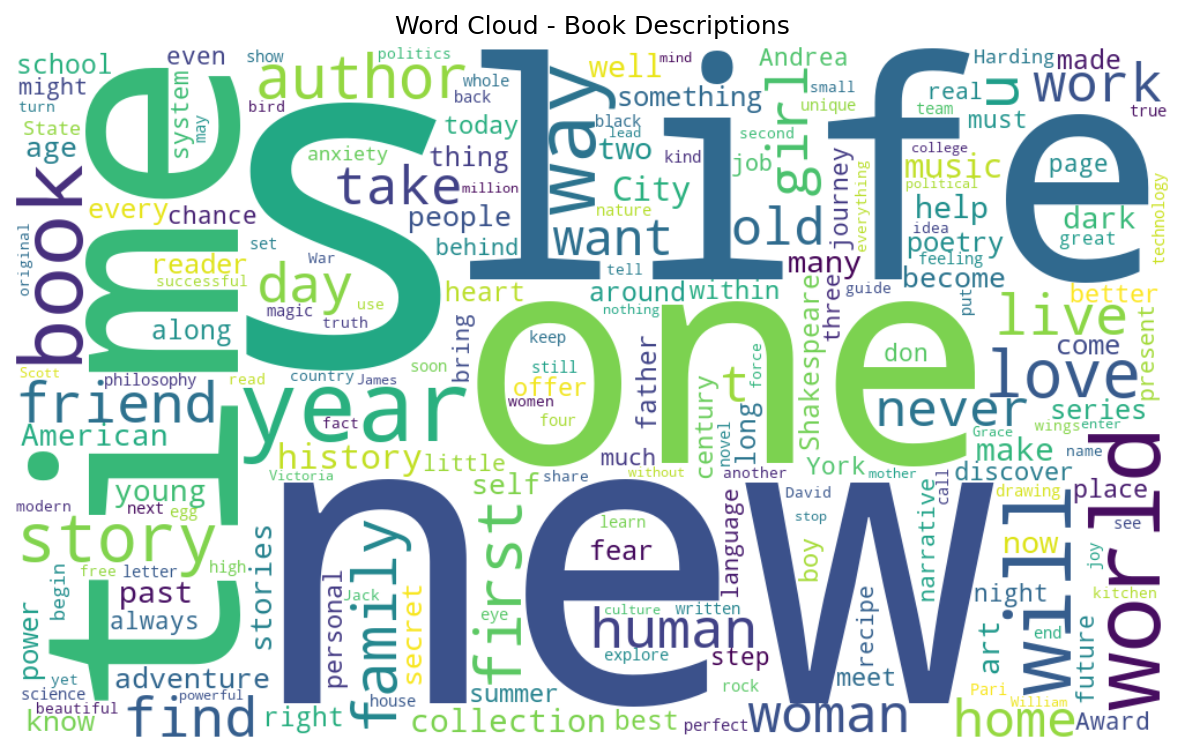
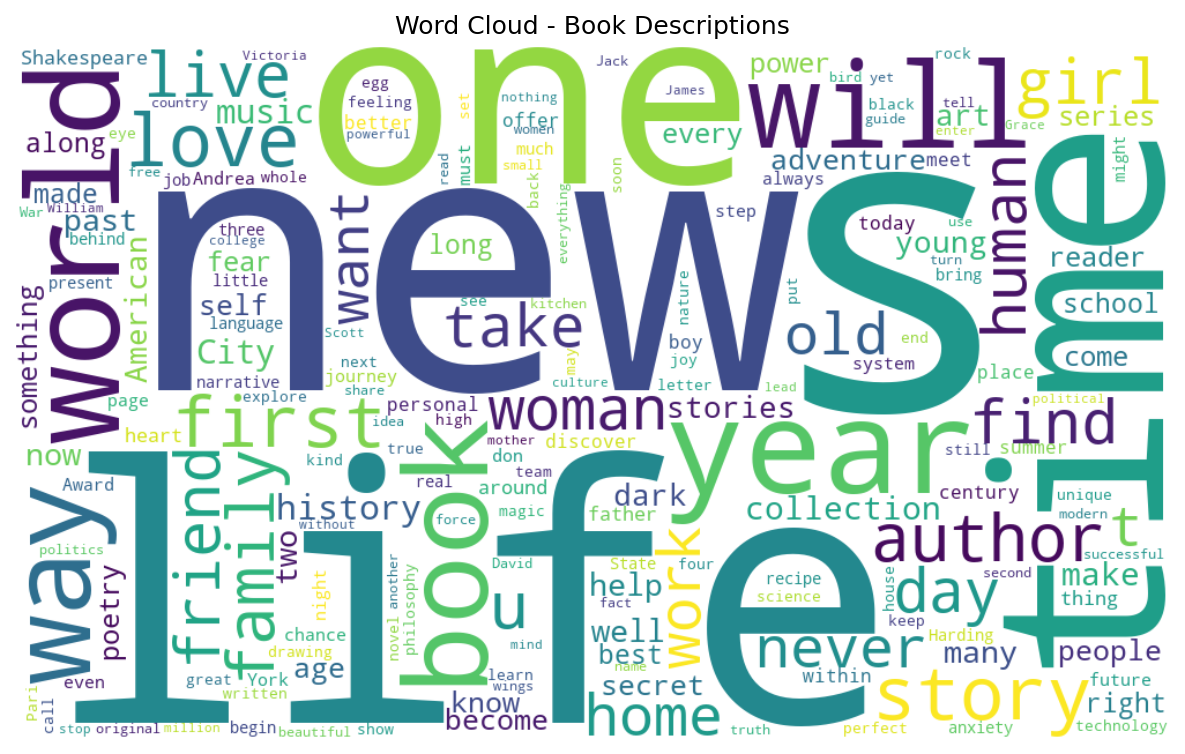
Task 4 done

diff --git a/202618020_lab01/Readme.md b/202618020_lab01/Readme.md
@@ -1,0 +1,183 @@
+
+
+
+# Project Objectives
+
+- Scrape book information from multiple catalog pages using Scrapy.
+- Clean and preprocess the collected dataset.
+- Create new engineered features for analysis.
+- Generate visualizations to explore the data.
+- Interpret the results using summary statistics and graphical analysis.
+
+---
+
+# Dataset
+
+A total of **100 books** were scraped from the first **5 catalog pages**.
+
+The following information was extracted for each book:
+
+- Title
+- Category
+- Price
+- Rating
+- Availability
+- Product Description
+- UPC
+- Number of Reviews
+- Product URL
+
+---
+
+# Task 1 – Data Scraping
+
+The Scrapy spider performs the following tasks:
+
+- Crawls multiple catalog pages
+- Follows pagination automatically
+- Visits each individual book page
+- Extracts all required fields
+- Saves the raw dataset as CSV
+
+The scraping process also reports:
+
+- Total records scraped
+- Missing values
+- Duplicate UPC values
+
+---
+
+# Task 2 – Data Preprocessing
+
+The preprocessing pipeline performs the following operations:
+
+- Removed duplicate books using UPC
+- Cleaned inconsistent text and extra whitespace
+- Corrected duplicated product descriptions
+- Converted prices to numeric values
+- Converted ratings from text to integers
+- Extracted available stock count
+
+### Engineered Features
+
+The following additional features were created:
+
+- **description_word_count**
+- **price_band**
+- **value_score**
+
+The cleaned dataset is stored in:
+
+```text
+data/clean/books_clean.csv
+```
+
+---
+
+# Task 3 – Visualization and Analysis
+
+The following visualizations were generated:
+
+- Price Distribution
+- Rating Distribution
+- Average Price by Category
+- Price vs Rating (Relationship Plot)
+- Word Cloud from Book Descriptions
+
+All generated plots are stored inside the **plots/** directory.
+
+---
+
+## Price Distribution
+
+![Price Distribution](plots/price_distribution.png)
+
+---
+
+## Rating Distribution
+
+![Rating Distribution](plots/rating_distribution.png)
+
+---
+
+## Average Price by Category
+
+![Average Price by Category](plots/avg_price_by_category.png)
+
+---
+
+## Price vs Rating
+
+![Price vs Rating](plots/price_vs_rating.png)
+
+---
+
+## Description Word Cloud
+
+![Description Word Cloud](plots/description_wordcloud.png)
+
+---
+
+# Summary Statistics
+
+| Metric | Value |
+|---------|-------|
+| Total Books | **100** |
+| Price Range | **£10.16 – £58.11** |
+| Average Price | **£34.56** |
+| Average Rating | **2.93 / 5** |
+| Price vs Rating Correlation | **-0.122** |
+
+---
+
+# Key Insights
+
+1. The dataset contains **100 books** with prices ranging from **£10.16 to £58.11**, and an average price of **£34.56**, showing considerable variation in book pricing.
+
+2. The average book rating is **2.93**, indicating that most books have moderate ratings rather than extremely high or low ratings.
+
+3. The correlation between **price and rating is -0.122**, suggesting that there is little to no relationship between a book's price and its rating.
+
+4. **Historical Fiction** has the highest average price (£53.74), followed by Politics, Childrens, Health, and Self Help.
+
+5. **Spirituality** and **Young Adult** books are the least expensive categories on average.
+
+6. **Sequential Art** is the most represented category in the dataset, followed by Nonfiction and Default.
+
+7. Stock availability is relatively consistent across the dataset, with an average stock count of **17 books**.
+
+---
+
+# Project Structure
+
+```text
+bookscraper/
+│
+├── bookscraper/
+│   ├── spiders/
+│   └── ...
+│
+├── data/
+│   ├── raw/
+│   └── clean/
+│       └── books_clean.csv
+│
+├── plots/
+│   ├── avg_price_by_category.png
+│   ├── description_wordcloud.png
+│   ├── price_distribution.png
+│   ├── price_vs_rating.png
+│   └── rating_distribution.png
+│
+├── preprocess.py
+├── fix_duplicated_descriptions.py
+├── visualize.py
+├── report_raw_stats.py
+├── scrapy.cfg
+├── requirements.txt
+└── README.md
+```
+
+
+
+
